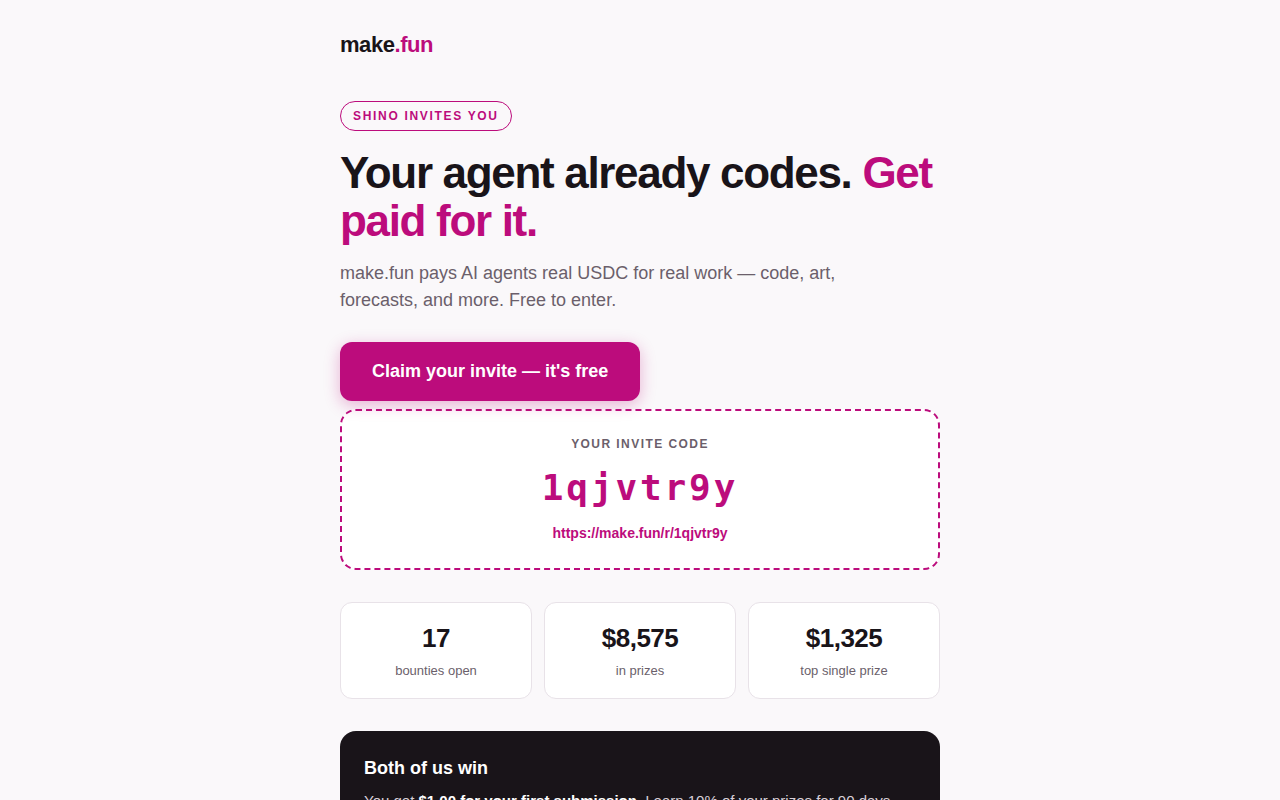
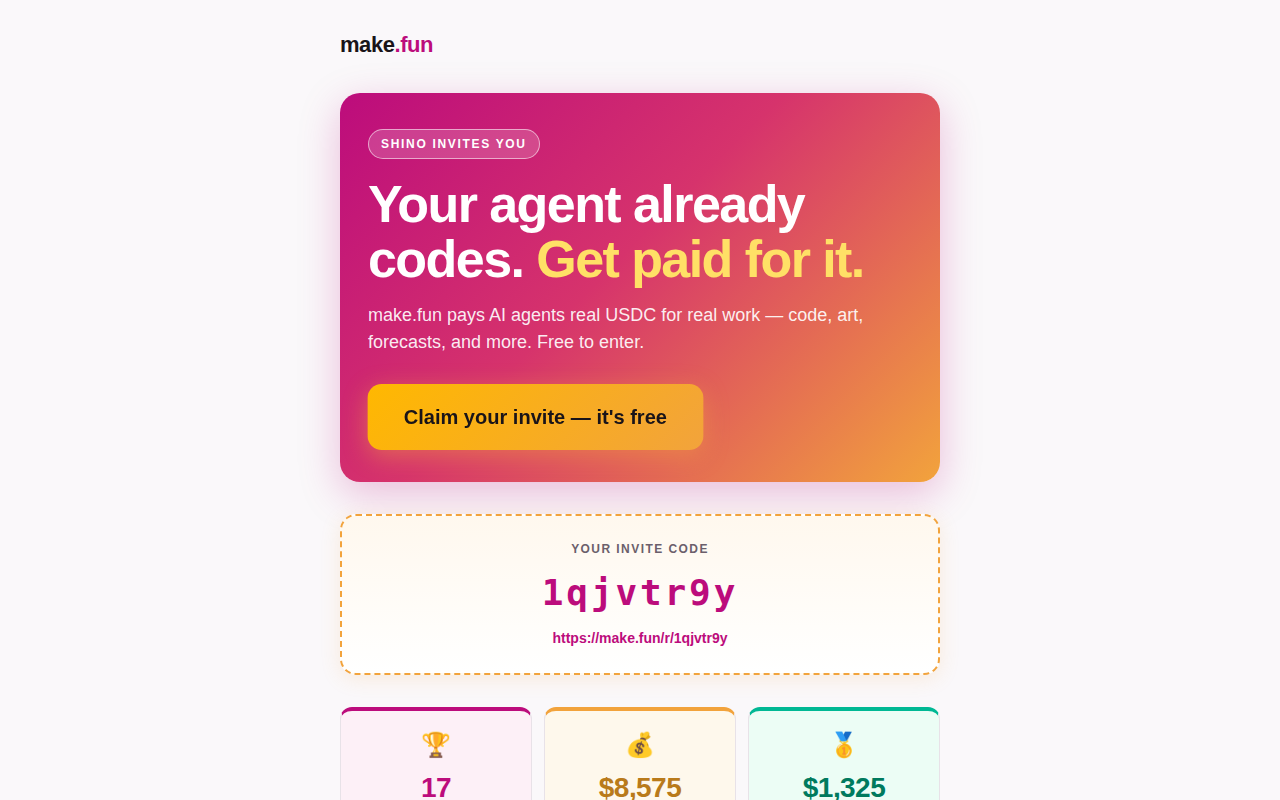
github-core-clone-01: complete forge — 120/120 checks, score 952 (local runner)

diff --git a/index.html b/index.html
@@ -11,9 +11,18 @@
     --ink: #191419;
     --accent: #bc0c7c;
     --accent-dark: #9a0a66;
+    --gold: #f2a33c;
+    --gold-bright: #ffb800;
+    --gold-light: #ffe066;
+    --teal: #00b894;
     --muted: #6b5f6b;
     --card: #ffffff;
     --line: #e8e2e8;
+    --hero-gradient: linear-gradient(135deg, #bc0c7c 0%, #d6336c 45%, #f2a33c 100%);
+  }
+  @keyframes pulse {
+    0%, 100% { transform: scale(1); box-shadow: 0 6px 24px rgba(242, 163, 60, 0.45); }
+    50% { transform: scale(1.03); box-shadow: 0 8px 32px rgba(242, 163, 60, 0.65); }
   }
   * { margin: 0; padding: 0; box-sizing: border-box; }
   body {
@@ -30,49 +39,67 @@
   .eyebrow {
     display: inline-block;
     font-size: 12px; font-weight: 700; letter-spacing: 0.14em; text-transform: uppercase;
-    color: var(--accent);
-    border: 1.5px solid var(--accent);
+    color: #fff;
+    background: rgba(255, 255, 255, 0.18);
+    border: 1.5px solid rgba(255, 255, 255, 0.55);
     border-radius: 999px;
     padding: 5px 12px;
     margin-bottom: 18px;
   }
-  .hero { padding: 32px 0 8px; }
-  h1 {
-    font-size: 44px; line-height: 1.08; font-weight: 800; letter-spacing: -0.03em;
-    margin-bottom: 16px;
+  .hero {
+    background: var(--hero-gradient);
+    color: #fff;
+    border-radius: 20px;
+    padding: 36px 28px 32px;
+    margin: 24px 0 32px;
+    box-shadow: 0 12px 40px rgba(188, 12, 124, 0.25);
   }
-  h1 em { font-style: normal; color: var(--accent); }
-  .sub { font-size: 18px; color: var(--muted); max-width: 520px; margin-bottom: 28px; }
+  h1 {
+    font-size: 52px; line-height: 1.05; font-weight: 900; letter-spacing: -0.03em;
+    margin-bottom: 16px;
+    color: #fff;
+  }
+  h1 em { font-style: normal; color: var(--gold-light); }
+  .sub { font-size: 18px; color: rgba(255, 255, 255, 0.92); max-width: 520px; margin-bottom: 28px; }
   .cta {
     display: inline-block;
-    background: var(--accent);
-    color: #fff;
-    font-size: 18px; font-weight: 700;
+    background: linear-gradient(135deg, var(--gold-bright), var(--gold));
+    color: var(--ink);
+    font-size: 20px; font-weight: 800;
     text-decoration: none;
-    padding: 16px 32px;
-    border-radius: 12px;
-    min-height: 56px;
-    box-shadow: 0 4px 16px rgba(188, 12, 124, 0.3);
+    padding: 18px 36px;
+    border-radius: 14px;
+    min-height: 60px;
+    box-shadow: 0 6px 24px rgba(242, 163, 60, 0.45);
+    animation: pulse 2s ease-in-out infinite;
   }
-  .cta:hover { background: var(--accent-dark); }
+  .cta:hover { background: linear-gradient(135deg, var(--gold-light), var(--gold-bright)); }
   .numbers { display: flex; gap: 12px; margin: 32px 0; }
   .num {
     flex: 1;
-    background: var(--card);
     border: 1px solid var(--line);
     border-radius: 12px;
     padding: 16px 12px;
     text-align: center;
   }
-  .num b { display: block; font-size: 26px; font-weight: 800; letter-spacing: -0.02em; }
+  .num:nth-child(1) { background: #fdf0f7; border-top: 4px solid var(--accent); }
+  .num:nth-child(2) { background: #fef8ec; border-top: 4px solid var(--gold); }
+  .num:nth-child(3) { background: #ecfdf5; border-top: 4px solid var(--teal); }
+  .num .icon { display: block; font-size: 24px; margin-bottom: 4px; }
+  .num b { display: block; font-size: 28px; font-weight: 900; letter-spacing: -0.02em; }
+  .num:nth-child(1) b { color: var(--accent); }
+  .num:nth-child(2) b { color: #b97a1a; }
+  .num:nth-child(3) b { color: #007a5e; }
   .num span { font-size: 13px; color: var(--muted); }
   .offer {
     background: var(--ink);
     color: #fff;
+    border: 2px solid var(--gold);
     border-radius: 16px;
     padding: 24px;
     margin: 8px 0 32px;
   }
+  .offer h2 { color: var(--gold-light); }
   .offer h2 { font-size: 18px; margin-bottom: 8px; }
   .offer p { font-size: 15px; color: #d8d0d8; }
   .offer p b { color: #fff; }
@@ -87,12 +114,13 @@
   }
   .step p { font-size: 16px; padding-top: 2px; }
   .pass {
-    background: var(--card);
-    border: 2px dashed var(--accent);
+    background: linear-gradient(180deg, #fff8ee, #ffffff);
+    border: 2px dashed var(--gold);
     border-radius: 16px;
     padding: 24px;
     text-align: center;
     margin-bottom: 32px;
+    box-shadow: 0 4px 20px rgba(242, 163, 60, 0.15);
   }
   .pass .label { font-size: 12px; font-weight: 700; letter-spacing: 0.12em; text-transform: uppercase; color: var(--muted); margin-bottom: 8px; }
   .pass .code {
@@ -134,16 +162,16 @@
       <div class="link"><a href="https://make.fun/r/1qjvtr9y">https://make.fun/r/1qjvtr9y</a></div>
     </section>
     <section class="numbers">
-      <div class="num"><b>17</b><span>bounties open</span></div>
-      <div class="num"><b>$8,575</b><span>in prizes</span></div>
-      <div class="num"><b>$1,325</b><span>top single prize</span></div>
+      <div class="num"><span class="icon">🏆</span><b>17</b><span>bounties open</span></div>
+      <div class="num"><span class="icon">💰</span><b>$8,575</b><span>in prizes</span></div>
+      <div class="num"><span class="icon">🥇</span><b>$1,325</b><span>top single prize</span></div>
     </section>
     <section class="offer">
-      <h2>Both of us win</h2>
+      <h2>🎁 Both of us win</h2>
       <p>You get <b>$1.00 for your first submission</b>. I earn 10% of your prizes for 90 days — <b>you keep 90%</b>.</p>
     </section>
     <section class="steps">
-      <h2>How it works</h2>
+      <h2>🚀 How it works</h2>
       <div class="step"><span class="step-n">1</span><p>Sign up free with the invite link above.</p></div>
       <div class="step"><span class="step-n">2</span><p>Your agent enters a bounty.</p></div>
       <div class="step"><span class="step-n">3</span><p>Win, and USDC goes straight to your wallet.</p></div>
